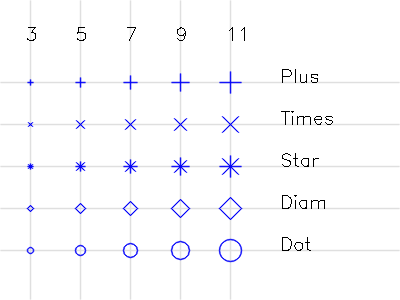
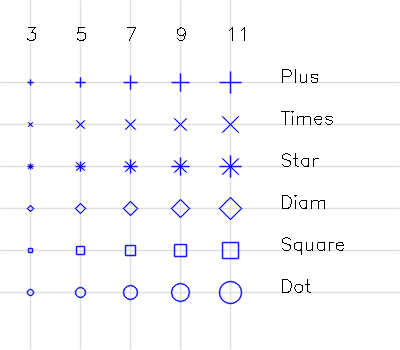
added 'square' drawing style for points, fixed manual

diff --git a/homog2d.hpp b/homog2d.hpp
@@ -435,14 +435,17 @@ struct SvgImage
 //------------------------------------------------------------------
 /// Point drawing style, see DrawParams
 /**
+Demo: https://github.com/skramm/homog2d/blob/master/docs/homog2d_manual.md#drawing_params
+
 \warning Check nextPointStyle() in case of added values here!
 */
 enum class PtStyle: uint8_t
 {
-	Plus,   ///< "+" symbol
-	Times,  ///< "times" symbol
-	Star,   ///< "*" symbol
+	Plus,   ///< \c + symbol
+	Times,  ///< \c X symbol
+	Star,   ///< \c * symbol
 	Diam,   ///< diamond
+	Squ,    ///< square (new 20241101 !)
 	Dot     ///< dot (circle)
 };
 
@@ -457,7 +460,8 @@ getString( PtStyle t )
 		case PtStyle::Times: s="Times"; break;
 		case PtStyle::Star:  s="Star";  break;
 		case PtStyle::Diam:  s="Diam";  break;
-		case PtStyle::Dot:   s="Dot";   break;
+		case PtStyle::Squ:   s="Square";break;
+		case PtStyle::Dot:   s="Dot";   break; // WARNING: keep this as last one (assumed to be last one in some code)
 		default: assert(0);
 	}
 	return s;
@@ -10846,6 +10850,7 @@ drawPt(
 	switch( ps )
 	{
 		case img::PtStyle::Times:
+		case img::PtStyle::Squ:
 			vpt[0].translate( -delta2, +delta2 );
 			vpt[1].translate( +delta2, -delta2 );
 			vpt[2].translate( +delta2, +delta2 );
@@ -10865,10 +10870,24 @@ drawPt(
 	dp2.showPoints(false); //  segment drawing function. If not, infinite recursion
 	if( !drawDiag )
 	{
-		Segment_<float> s1( vpt[0], vpt[1] );
-		Segment_<float> s2( vpt[2], vpt[3] );
-		s1.draw( img, dp2 );
-		s2.draw( img, dp2 );
+		if( ps == img::PtStyle::Squ )
+		{
+			std::vector<Segment_<float>> vseg{
+				{vpt[0], vpt[1]},
+				{vpt[2], vpt[1]},
+				{vpt[2], vpt[3]},
+				{vpt[0], vpt[3]}
+			};
+			for( const auto& s:vseg )
+				s.draw( img, dp2 );
+		}
+		else
+		{
+			Segment_<float> s1( vpt[0], vpt[1] );
+			Segment_<float> s2( vpt[2], vpt[3] );
+			s1.draw( img, dp2 );
+			s2.draw( img, dp2 );
+		}
 	}
 	else // draw 4 diagonal lines
 	{
@@ -11211,6 +11230,10 @@ base::LPBase<LP,FPT>::impl_draw_LP(
 
 		case img::PtStyle::Diam:
 			detail::drawPt( im, img::PtStyle::Plus, vpt, dp, true );
+		break;
+
+		case img::PtStyle::Squ:
+			detail::drawPt( im, img::PtStyle::Squ, vpt, dp, true );
 		break;
 
 		case img::PtStyle::Times:      // "times" symbol

diff --git a/misc/figures_src/src/drawparams_checking.cpp b/misc/figures_src/src/drawparams_checking.cpp
@@ -50,10 +50,7 @@ void process( img::Image<T>& im, std::string fn, int width )
 		for( int i=0;i<nbTypes; i++ )
 		{
 			pt.draw( im, color.setPointStyle( newPointStyle ).setPointSize(s) );
-			auto npts = static_cast<int>(newPointStyle)+1;
-			newPointStyle = static_cast<img::PtStyle>(npts);
-			if( npts == static_cast<int>( img::PtStyle::Dot )+1 )
-				newPointStyle = img::PtStyle::Plus;
+			newPointStyle = color._dpValues.nextPointStyle();
 			pt.translate(0,deltay);
 		}
 		pt.set( getX(pt)+deltax, y0+deltay );
@@ -78,11 +75,11 @@ void process( img::Image<T>& im, std::string fn, int width )
 /// Used to check the drawing parameters for points
 int main()
 {
-	img::Image<SvgImage> im1( 400,300 );
+	img::Image<SvgImage> im1( 400,350 );
 	process( im1, "drawparams_1.svg", 1 );
 	process( im1, "drawparams_2.svg", 2 );
 
-	img::Image<cv::Mat>  im2( 400,300 );
+	img::Image<cv::Mat> im2( 400,350 );
 	process( im2, "drawparams_1.png", 1 );
 	process( im2, "drawparams_2.png", 2 );
 }

diff --git a/docs/homog2d_manual.md b/docs/homog2d_manual.md
@@ -1888,14 +1888,16 @@ The available functions are given in the table below:
 ------------------|------------------|---------|
 `setColor()`      | 3 ints ([0-255]) |  |
 `setColor()`      |  `img::Color`    |  |
-`setPointStyle()` | enum `PtStyle`: `Plus`,`Times`,`Star`,`Diam`,`Dot` |  |
+`setPointStyle()` | enum `PtStyle`: `Plus`,`Times`,`Star`,`Diam`,`Squ`,`Dot` |  |
 `setPointSize()`  |  1 int (pixels)  |  |
 `setThickness()`  |  1 int (pixels)  |  |
 `showPoints()`    | bool (default is `true`) | Draws the points for<br>Segment and Polyline types |
 `setFontSize()`   | int (size in pixels)     | Only used for `drawText()`  |
 
 
-| width | png (OpenCv) |   svg  |
+The following table shows the rendering of the different point styles (`PtStyle`), with the OpenCv and SVG backend, with width (`setThickness()`) set to 1 and 2.
+
+| width | png (OpenCv) |   Svg  |
 |-------|--------------|--------|
 |   1   | ![demo_pt](img/drawparams_1.png) | ![demo_pt](img/drawparams_1.svg) |
 |   2   | ![demo_pt](img/drawparams_2.png) | ![demo_pt](img/drawparams_2.svg) |
